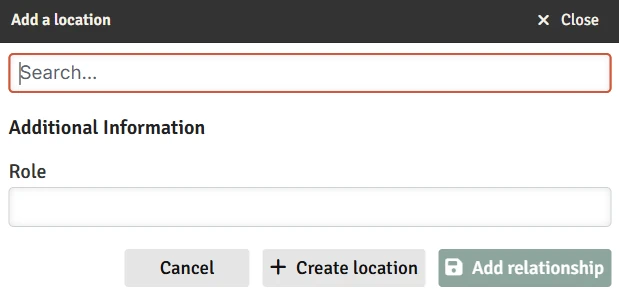
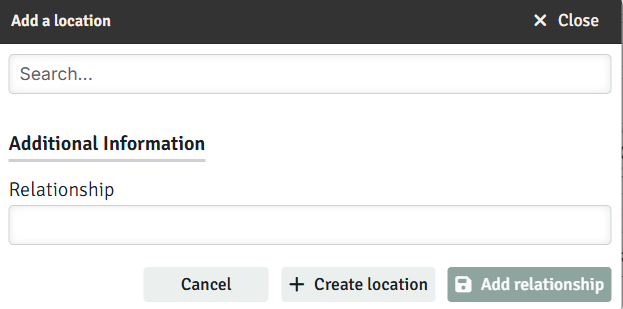
added relationship field (#550)

Changed region(s): [[0.0, 0.0, 1.0, 1.0], [0.0, 0.0304, 0.1842, 0.0912]]

diff --git a/src/components/tables/RelatedItemDialog.vue b/src/components/tables/RelatedItemDialog.vue
@@ -371,24 +371,6 @@
   width: 100%;
   padding: 0.5rem 0;
 
-  h6 {
-    margin-bottom: 2px;
-    margin-top: 8px;
-    display: flex;
-    align-items: center;
-
-    .tooltip-icon {
-      margin-left: 5px;
-      font-size: 12px;
-      color: #888;
-      cursor: help;
-
-      &:hover {
-        color: #555;
-      }
-    }
-  }
-
   .extra-fields-container {
     width: 100%;
     margin-top: 20px;
@@ -396,10 +378,36 @@
     .extra-fields-title {
       font-size: var(--fcb-font-size-header);
       font-weight: 600;
+      color: var(--fcb-text);
       margin-bottom: 0.75rem;
-      border-bottom: 1px solid rgba(255, 255, 255, 0.1);
+      margin-top: 2rem;
+      border-bottom: 3px solid var(--fcb-control-border);
       padding-bottom: 0.25rem;
-      width: 80%;
+      width: fit-content;
+    }
+
+    .field-wrapper {
+      font-size: var(--fcb-font-size-large);
+
+      h6 {
+        color: var(--fcb-text);
+        font-weight: 350;
+        margin-bottom: 2px;
+        margin-top: 8px;
+        display: flex;
+        align-items: center;
+
+        .tooltip-icon {
+          margin-left: 5px;
+          font-size: var(--font-size-12);
+          color: var(--fcb-text);
+          cursor: help;
+        }
+      }
+
+      input {
+        color: var(--fcb-text);
+      }
     }
   }
 }

diff --git a/src/applications/stores/relationshipStore.ts b/src/applications/stores/relationshipStore.ts
@@ -33,23 +33,26 @@ export const useRelationshipStore = defineStore('relationship', () => {
   const relatedDocumentRows = ref<RelatedDocumentDetails[]>([]);
   const sessionReferences = ref<SessionReference[]>([]);
 
+  // note that the field attribute becomes the key in the storage
+  //    and that key is used as part of the search index, so they should
+  //    be meaningful words/phrases
   const extraFields = {
     [Topics.Character]: {
-      [Topics.Character]: [],
+      [Topics.Character]: [{field:'relationship', header:'Relationship'}],
       [Topics.Location]: [{field:'role', header:'Role'}],
       [Topics.Organization]: [{field:'role', header:'Role'}],
       [Topics.PC]: [],
     },
     [Topics.Location]: {
       [Topics.Character]: [{field:'role', header:'Role'}],
-      [Topics.Location]: [],
+      [Topics.Location]: [{field:'relationship', header:'Relationship'}],
       [Topics.Organization]: [],
       [Topics.PC]: [{field:'role', header:'Role'}],
     },
     [Topics.Organization]: {
       [Topics.Character]: [{field:'role', header:'Role'}],
       [Topics.Location]: [],
-      [Topics.Organization]: [],
+      [Topics.Organization]: [{field:'relationship', header:'Relationship'}],
       [Topics.PC]: [{field:'role', header:'Role'}],
     },    
     [Topics.PC]: {

diff --git a/src/components/Dialog.vue b/src/components/Dialog.vue
@@ -254,27 +254,26 @@
           gap: 8px;
           min-width: 100px;
           font-size: var(--fcb-font-size-large);
+          color: var(--fcb-button-text);
+          background: var(--fcb-button-bg);
           border-radius: 3px;
           padding: 1px 6px;
           cursor: pointer;
           transition: all 0.2s ease;
           font-weight: 500;
-          border: 2px groove solid var(--fcb-control-border);
+          border: 2px groove solid var(--fcb-button-border);
 
             &:hover:not(:disabled) {
-              border-color: var(--fcb-control-border-hover);
+              border-color: var(--fcb-button-border-hover);
               box-shadow: 0 0 5px var(--fcb-accent);
+              background: var(--fcb-button-bg-hover);
+              color: var(--fcb-button-text-hover);
             }
 
           &.default {
             background: var(--fcb-primary);
             border: 2px groove solid rgb(201, 199, 184);
-            color: var(--fcb-text-inverted);
-
-            &:hover:not(:disabled) {
-              border-color: var(--fcb-control-border-hover-disabled);
-              box-shadow: 0 0 5px var(--fcb-accent);
-            }
+            color: var(--fcb-text-on-primary);
           }
 
           &:disabled {

diff --git a/docs/reference/world-building/content/entry/relationships.md b/docs/reference/world-building/content/entry/relationships.md
@@ -21,10 +21,14 @@ Click "Add Location/Organization/Character" to create a new relationship.  You c
 
 You can also drag and drop any Entry from the [^Setting Directory] onto the box at the top instead.
 
-## Roles
-For the relationship between a Character and either a Location or Organization, there is an extra field available - "Role".  This lets you describe how the Character is related.  For example, Joe might be the "Mayor" of Mainville.  This role is-bidirectional (i.e. if you edit it on the Joe side, you'll see that reflected on the Mainville side).  
+## Extra fields
+Some connectionships have additional fields to capture info about the relationship itself.
 
-Characters don't have a role when connected to other characters, in part because those tend to be asymmetrical (ex. Joe is Mary's parent, but Mary isn't Joe's parent).  These situations are better handled in your descriptions for the two Characters.
+### Role
+For the relationship between a Character and either a Location or Organization, there is an extra field available - "Role".  This lets you describe how the Character is related.  For example, Joe might be the "Mayor" of Mainville.  This role is bi-directional (i.e. if you edit it on the Joe side, you'll see that reflected on the Mainville side).  
+
+### Relationship
+When you connect two characters, two locations, or two organizations, there is an extra field available - "Relationship".  This lets you describe how the two are related.  For example, two kingdoms might be allies or two people might be friends.  This relationship is bi-directional (i.e. the same text shows on both sides).  This generally isn't a problem other than things like parent-child relationships where there isn't a good common word.  In these cases, I recommend just saying "mother/son" or whatever, which generally sufficient.
 
 ## The related entry list
 This list shows each of the related Entries.  You can click on the name to open that Entry (hold 'Control' to do it in a new tab).  You can click the Edit button or the role field text to modify the "Role" that describes the relationship (hit Enter to save).

diff --git a/docs/reference/navigation/search.md b/docs/reference/navigation/search.md
@@ -26,7 +26,7 @@ This box searches all [^Entries], looking across these fields:
 * Type 
 * Species for Characters 
 * [Parents](/reference/navigation/sidebar#hierarchies) (and grandparents) and children for Locations/Organizations
-* Names and roles of [relationships](/reference/world-building/content/entry/relationships)
+* Names and roles/relationships of [related Entries](/reference/world-building/content/entry/relationships)
 
 So, searching for "Sally sibling" would return an entry with a relationship of "sibling" to a Character named Sally.  That result would be lower on the list, though, than Sally herself.
 
